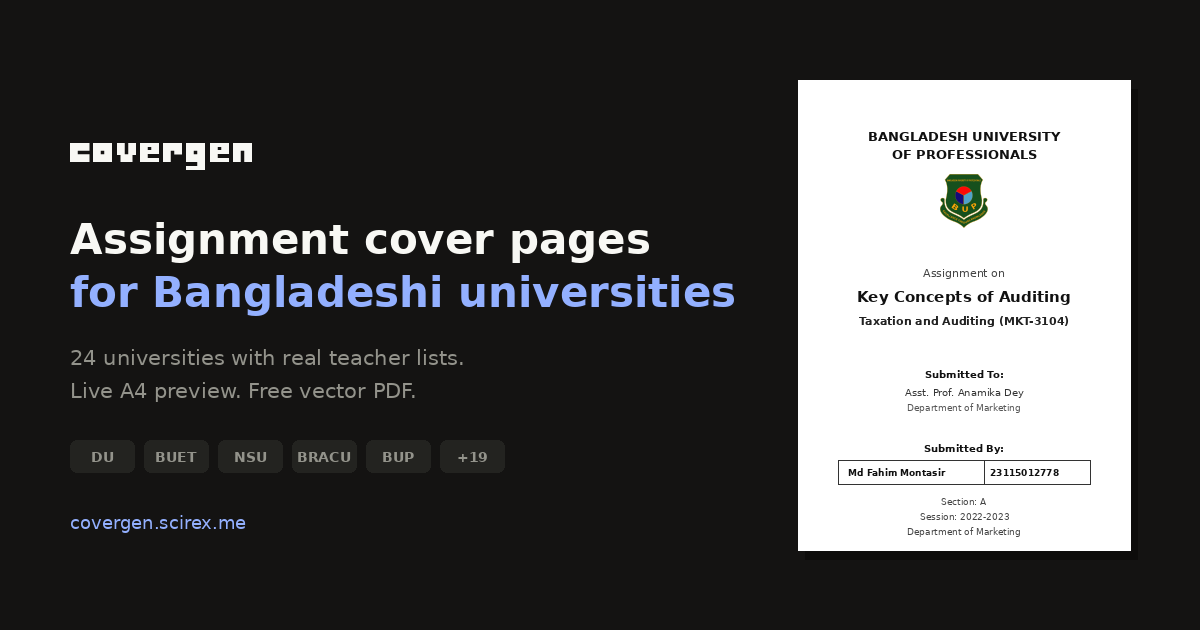
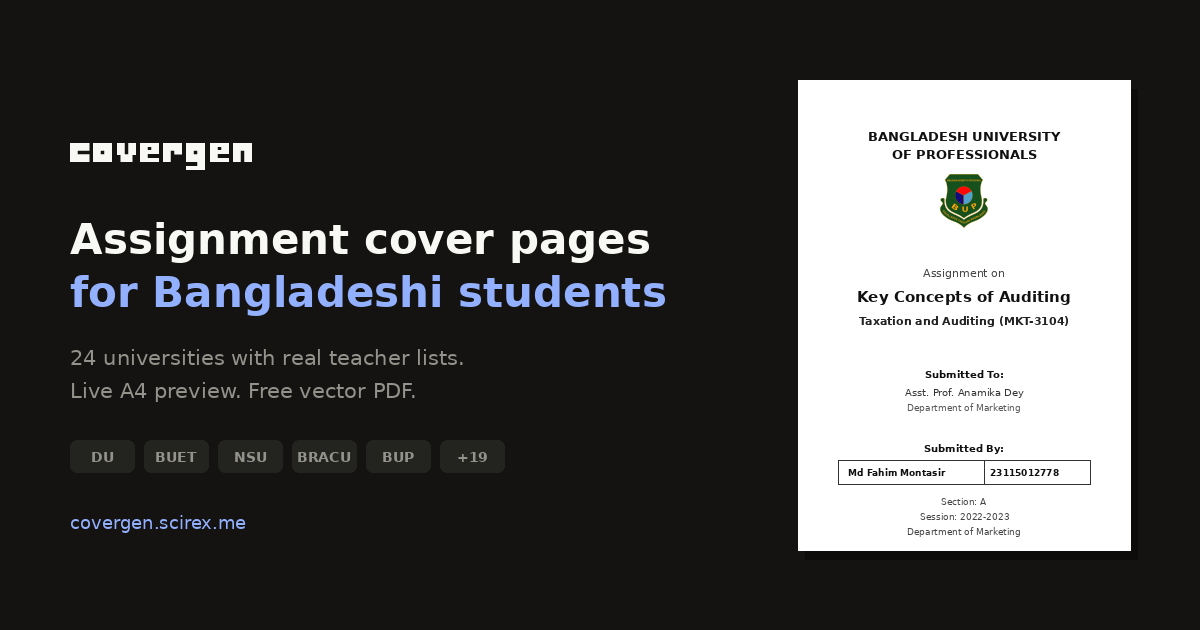
Say the metadata is for Bangladeshi students, not universities
Students are who the tool is for; the universities are what it supports. The
title, og:title, twitter:title, the about heading and the share card all say
students now.

Two sentences keep the old wording on purpose: "24 Bangladeshi universities"
is a count, and swapping it would make it false. The description leads with
students instead and keeps the number where it belongs.

Claude-Session: https://claude.ai/code/session_014gNkCCPmTyobdcsW8hSUuo

Changed region(s): [[0.37, 0.4222, 0.6167, 0.5127]]

diff --git a/index.html b/index.html
@@ -3,15 +3,15 @@
 <head>
   <meta charset="UTF-8">
   <meta name="viewport" content="width=device-width, initial-scale=1.0">
-  <title>Assignment Cover Page Generator for Bangladeshi Universities</title>
-  <meta name="description" content="Free cover page generator for 24 Bangladeshi universities including DU, BUET, NSU, BRAC and BUP. Live A4 preview, real teacher lists, and a one-click vector PDF. Also does APA 7, MLA 9 and Chicago.">
+  <title>Assignment Cover Page Generator for Bangladeshi Students</title>
+  <meta name="description" content="Free assignment cover page generator for Bangladeshi students. 24 universities including DU, BUET, NSU, BRAC and BUP, with live A4 preview, real teacher lists and a one-click vector PDF. Also does APA 7, MLA 9 and Chicago.">
   <link rel="canonical" href="https://covergen.scirex.me/">
   <meta name="theme-color" content="#4568ff">
 
   <meta property="og:type" content="website">
   <meta property="og:url" content="https://covergen.scirex.me/">
   <meta property="og:site_name" content="covergen">
-  <meta property="og:title" content="Assignment Cover Page Generator for Bangladeshi Universities">
+  <meta property="og:title" content="Assignment Cover Page Generator for Bangladeshi Students">
   <meta property="og:description" content="Pick your university, fill in your details, print a clean A4 cover page. Free, no sign-up, works offline. 24 universities and four citation formats.">
   <meta property="og:image" content="https://covergen.scirex.me/assets/og-cover.png">
   <meta property="og:image:width" content="1200">
@@ -19,7 +19,7 @@
   <meta property="og:image:alt" content="covergen: an A4 assignment cover page previewed in the browser">
   <meta property="og:locale" content="en_GB">
   <meta name="twitter:card" content="summary_large_image">
-  <meta name="twitter:title" content="Assignment Cover Page Generator for Bangladeshi Universities">
+  <meta name="twitter:title" content="Assignment Cover Page Generator for Bangladeshi Students">
   <meta name="twitter:description" content="Pick your university, fill in your details, print a clean A4 cover page. Free, no sign-up, works offline.">
   <meta name="twitter:image" content="https://covergen.scirex.me/assets/og-cover.png">
   <link rel="icon" type="image/svg+xml" href="assets/favicon.svg">
@@ -239,7 +239,7 @@
         <interior-accordion>
           <interior-panel heading="About this tool">
             <div class="prose">
-              <h2>Assignment cover page generator for Bangladeshi universities</h2>
+              <h2>Assignment cover page generator for Bangladeshi students</h2>
               <p>
                 covergen lays out the cover page your department asks for and prints it
                 as a sharp A4 PDF. Pick your university, pick the format, fill in your

diff --git a/sw.js b/sw.js
@@ -5,7 +5,7 @@
  * The catch: nobody sees a deploy until VERSION changes. Bump it in any commit
  * that changes a served file; the new worker then drops the old cache.
  */
-const VERSION = "2026-10-10.8";
+const VERSION = "2026-10-10.9";
 
 self.addEventListener("install", () => self.skipWaiting());
 

diff --git a/tools/og-image.py b/tools/og-image.py
@@ -81,7 +81,7 @@ def main():
 
     d.text((70, 120), "covergen", font=bitrimus, fill=INK)
     d.text((70, 215), "Assignment cover pages", font=ui(42, True), fill=INK)
-    d.text((70, 268), "for Bangladeshi universities", font=ui(42, True), fill=ACCENT)
+    d.text((70, 268), "for Bangladeshi students", font=ui(42, True), fill=ACCENT)
     d.text((70, 345), "24 universities with real teacher lists.", font=ui(21), fill=MUTED)
     d.text((70, 378), "Live A4 preview. Free vector PDF.", font=ui(21), fill=MUTED)
     for i, tag in enumerate(["DU", "BUET", "NSU", "BRACU", "BUP", "+19"]):
